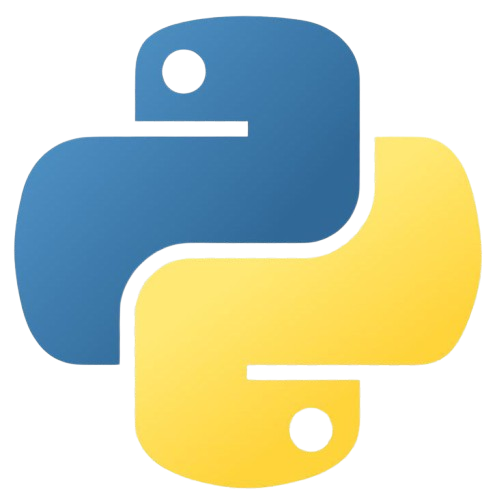
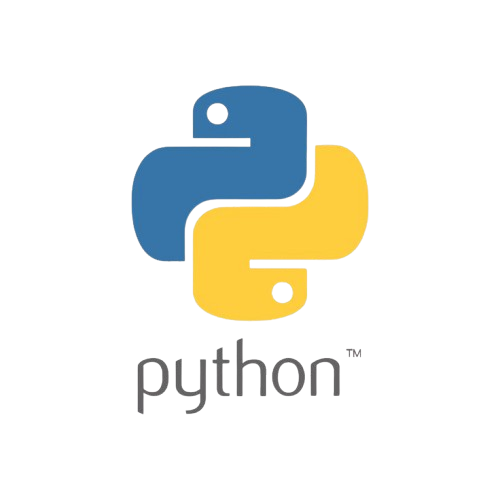
python asset changed

diff --git a/lib/widgets/tech_grid.dart b/lib/widgets/tech_grid.dart
@@ -6,8 +6,8 @@ class TechStackShowcase extends StatelessWidget {
   static const List<Map<String, String>> techStack = [
     {"name": "Flutter", "icon": "assets/images/FLUTTER.png"},
     {"name": "FastAPI", "icon": "assets/images/FASTAPI.png"},
-    {"name": "Flask", "icon": "assets/images/FLASK.png"},
-    {"name": "Python", "icon": "assets/images/Python.png"},
+    {"name": "Flask", "icon": "assets/images/POSTMAN.png"},
+    {"name": "Python", "icon": "assets/images/PYTHON.png"},
     {"name": "Firebase", "icon": "assets/images/FIREBASE.png"},
     {"name": "Supabase", "icon": "assets/images/SUPABASE.png"},
     {"name": "GitHub", "icon": "assets/images/GITHUB.png"},
@@ -119,7 +119,7 @@ class _TechCardState extends State<_TechCard>
                   Flexible(
                     child: Image.asset(
                       widget.iconPath,
-                      height: 80,
+                      height: 120,
                       fit: BoxFit.contain,
                     ),
                   ),
